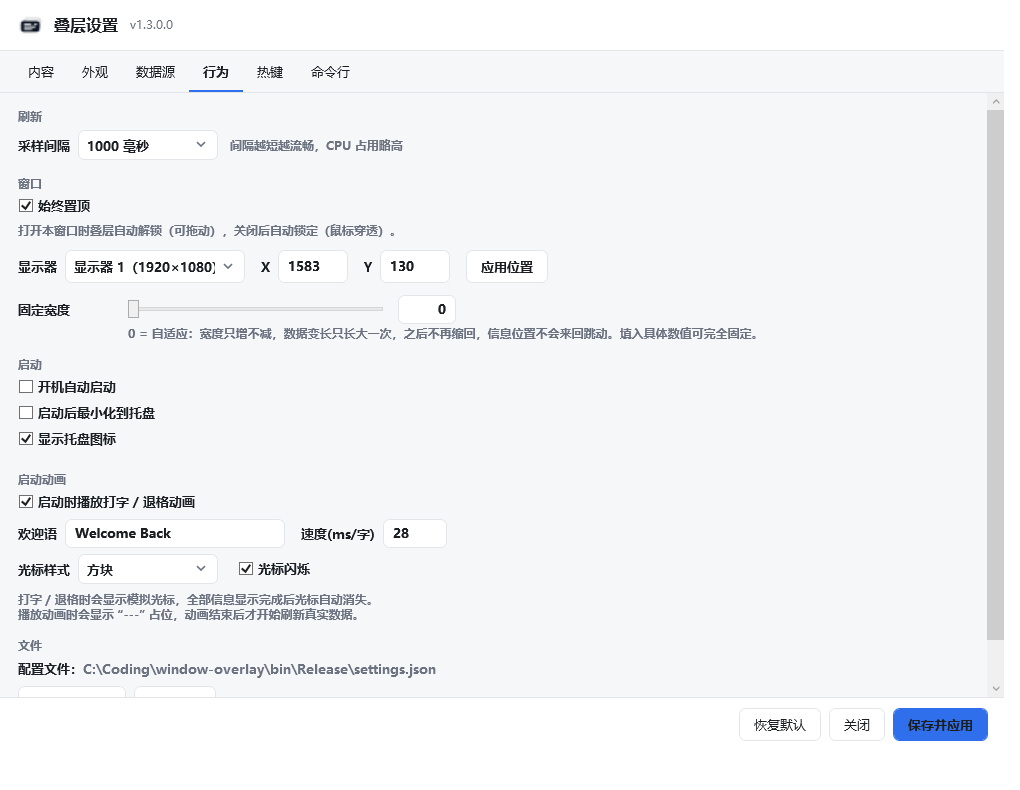
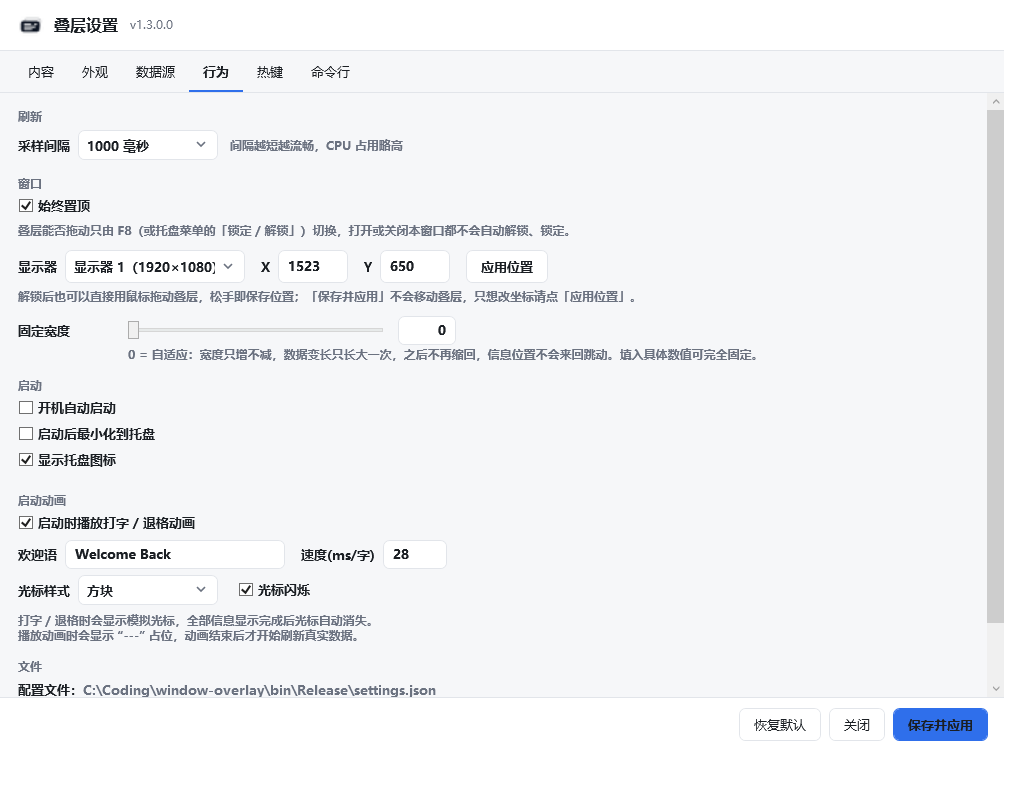
v1.4.0：锁定只由 F8 控制，保存设置不再移动叠层
- 打开 / 关闭设置窗口不再自动解锁或锁定，锁定状态只由 F8 与托盘菜单切换
- 修复「保存并应用」把叠层拉回打开设置时的位置：ApplySettings 以运行时 X/Y/Monitor/Locked 为准，
  拖动结束后由 OnPositionChanged 把新坐标同步回设置窗口
- 版本升到 1.4.0；publish.bat 产出四个单文件 exe（x64 / ARM64 × 自带运行时 / 依赖运行时）
- README 更新四种下载的说明、F8 语义与 publish 输出；重新生成设置截图
- 源码说明文档改由独立仓库维护，主仓库不再包含 docs/source（已在 .gitignore 忽略）

diff --git a/src/Ui/SettingsWindow.xaml b/src/Ui/SettingsWindow.xaml
@@ -354,7 +354,7 @@
                         <TextBlock Text="窗口" Style="{StaticResource SectionTitle}" Margin="0,16,0,6" />
                         <CheckBox x:Name="TopmostCheck" Content="始终置顶" Margin="0,0,0,8" />
                         <TextBlock Style="{StaticResource Hint}" TextWrapping="Wrap" Margin="0,0,0,8"
-                                   Text="打开本窗口时叠层自动解锁（可拖动），关闭后自动锁定（鼠标穿透）。" />
+                                   Text="叠层能否拖动只由 F8（或托盘菜单的「锁定 / 解锁」）切换，打开或关闭本窗口都不会自动解锁、锁定。" />
 
                         <StackPanel Orientation="Horizontal" Margin="0,4,0,0">
                             <TextBlock Text="显示器" VerticalAlignment="Center" />
@@ -365,6 +365,8 @@
                             <TextBox x:Name="YBox" Width="70" Margin="8,0,16,0" />
                             <Button Content="应用位置" Click="ApplyPositionClick" />
                         </StackPanel>
+                        <TextBlock Style="{StaticResource Hint}" TextWrapping="Wrap" Margin="0,6,0,0"
+                                   Text="解锁后也可以直接用鼠标拖动叠层，松手即保存位置；「保存并应用」不会移动叠层，只想改坐标请点「应用位置」。" />
 
                         <Grid Margin="0,12,0,0">
                             <Grid.ColumnDefinitions>

diff --git a/src/Ui/OverlayController.cs b/src/Ui/OverlayController.cs
@@ -124,7 +124,7 @@ namespace WindowOverlay.Ui
             window.HideRequested += ToggleVisibility;
             window.LockToggleRequested += ToggleLock;
             window.ExitRequested += Exit;
-            window.PositionChanged += SaveSettings;
+            window.PositionChanged += OnPositionChanged;
             window.CommandLineRequested += ToggleCommandLine;
             window.CommandSubmitted += SubmitCommand;
             window.CommandCancelled += ExitCommandLine;
@@ -663,18 +663,12 @@ namespace WindowOverlay.Ui
             if (_settingsWindow == null)
             {
                 _settingsWindow = new SettingsWindow(_settings, ApplySettings, ApplyPosition, ClearKeys);
-                _settingsWindow.IsVisibleChanged += (s, e) =>
-                {
-                    if (_settingsWindow != null && !_settingsWindow.IsVisible) SetLocked(true);
-                };
             }
             else
             {
                 _settingsWindow.Reload(_settings);
             }
 
-            // 打开设置期间叠层保持可拖动，方便直接调整位置；关闭后再锁回去。
-            SetLocked(false);
             _settingsWindow.Show();
             _settingsWindow.WindowState = WindowState.Normal;
             _settingsWindow.Activate();
@@ -692,6 +686,14 @@ namespace WindowOverlay.Ui
         public void ApplySettings(Settings settings)
         {
             if (_commandMode) ExitCommandLine();
+
+            // 位置与锁定是运行时状态：只由拖动、F8 和托盘菜单改变。
+            // 设置窗口里的坐标是打开窗口那一刻的快照，这里必须以实时值为准，
+            // 否则保存设置会把叠层拉回打开设置时的位置（也顺手把 F8 的解锁状态覆盖掉）。
+            settings.Overlay.X = _settings.Overlay.X;
+            settings.Overlay.Y = _settings.Overlay.Y;
+            settings.Overlay.Monitor = _settings.Overlay.Monitor;
+            settings.Overlay.Locked = _settings.Overlay.Locked;
 
             FinishIntro();
             _settings = settings;
@@ -732,6 +734,15 @@ namespace WindowOverlay.Ui
             }
 
             SaveSettings();
+        }
+
+        /// <summary>拖动结束后保存新坐标，并把实时坐标同步给打开着的设置窗口。</summary>
+        void OnPositionChanged()
+        {
+            SaveSettings();
+
+            if (_settingsWindow != null)
+                _settingsWindow.SyncPosition(_settings.Overlay.X, _settings.Overlay.Y, _settings.Overlay.Monitor);
         }
 
         void SaveSettings()

diff --git a/src/Ui/SettingsWindow.xaml.cs b/src/Ui/SettingsWindow.xaml.cs
@@ -825,6 +825,27 @@ namespace WindowOverlay.Ui
             StatusText.Text = "已移动到 X=" + x + " Y=" + y;
         }
 
+        /// <summary>
+        /// 把叠层的实时坐标同步到「显示器 / X / Y」输入框。
+        /// 拖动叠层和保存设置之后都会调用，保证对话框里显示的永远是叠层的真实位置。
+        /// </summary>
+        public void SyncPosition(double x, double y, int monitor)
+        {
+            bool old = _suppress;
+            _suppress = true;
+            try
+            {
+                XBox.Text = x.ToString("0", CultureInfo.InvariantCulture);
+                YBox.Text = y.ToString("0", CultureInfo.InvariantCulture);
+                if (MonitorCombo.Items.Count > 0)
+                    MonitorCombo.SelectedIndex = Math.Max(0, Math.Min(monitor, MonitorCombo.Items.Count - 1));
+            }
+            finally
+            {
+                _suppress = old;
+            }
+        }
+
         void HotkeyBoxPreviewKeyDown(object sender, KeyEventArgs e)
         {
             var box = sender as TextBox;
@@ -906,6 +927,9 @@ namespace WindowOverlay.Ui
             }
 
             if (_onApply != null) _onApply(s);
+
+            // 控制器把位置 / 锁定换成了实时值，同步回界面，避免下次保存又写回旧坐标。
+            SyncPosition(s.Overlay.X, s.Overlay.Y, s.Overlay.Monitor);
 
             _working = Clone(s);
             StatusText.Text = "已保存并应用（" + DateTime.Now.ToString("HH:mm:ss") + "）";

diff --git a/src/Ui/OverlayWindow.xaml.cs b/src/Ui/OverlayWindow.xaml.cs
@@ -80,7 +80,7 @@ namespace WindowOverlay.Ui
             UpdateMenuHeaders();
         }
 
-        /// <summary>只同步设置对象与鼠标穿透状态，不重画内容（切锁定、开设置时用）。</summary>
+        /// <summary>只同步设置对象与鼠标穿透状态，不重画内容（F8 / 托盘切换锁定时用）。</summary>
         public void RefreshSettings(Settings settings)
         {
             _settings = settings;

diff --git a/README.md b/README.md
@@ -32,8 +32,17 @@
 
 ## 🚀 快速开始
 
-**下载即用**：到 [Releases](https://github.com/CRITTIof/overlay-information-with-cmd/releases) 下载
-`WindowOverlay-x64.exe`（普通电脑）或 `WindowOverlay-arm64.exe`（Windows on ARM），放到任意本地目录双击运行。
+**下载即用**：到 [Releases](https://github.com/CRITTIof/overlay-information-with-cmd/releases) 下载，四种任选：
+
+| 文件 | 适用 | 说明 |
+| --- | --- | --- |
+| `WindowOverlay-x64.exe` | 普通电脑（x64） | 自带 .NET 8 运行时，约 60 MB，双击即用 |
+| `WindowOverlay-arm64.exe` | Windows on ARM | 自带 .NET 8 运行时，约 60 MB |
+| `WindowOverlay-x64-requires-dotnet.exe` | 已装 .NET 8 桌面运行时 | 体积约 0.4 MB，依赖系统运行时 |
+| `WindowOverlay-arm64-requires-dotnet.exe` | 已装 .NET 8 桌面运行时的 ARM 机器 | 体积约 0.4 MB，依赖系统运行时 |
+
+不放心的机器选前两个（免安装运行时）；想省空间、且已经装了
+[.NET 8 桌面运行时](https://dotnet.microsoft.com/download/dotnet/8.0)的，选后两个。
 
 **从源码运行**：
 
@@ -52,7 +61,7 @@ run.bat
 | --- | --- | --- |
 | 打开 / 关闭快捷命令行 | `F9` | 见下一节 |
 | 打开设置窗口 | `F10` | 也可左键单击托盘图标 |
-| 锁定 / 解锁（鼠标穿透） | `F8` | 解锁后可拖动、右键菜单、双击设置；打开设置窗口时自动解锁，关闭后自动锁定 |
+| 锁定 / 解锁（鼠标穿透） | `F8` | 叠层能否拖动、能否点右键只由它切换；打开 / 关闭设置窗口不会自动改变锁定状态，保存设置也不会移动叠层 |
 | 显示 / 隐藏叠层 | *未设置* | 从托盘菜单操作，或自行绑定 |
 
 所有热键都能在「设置 → 热键」里改，**留空 = 不启用**；被其它程序占用时会自动退到 `Ctrl+Alt+原键`。
@@ -183,12 +192,21 @@ MEM {mem_pct:0}%    →  MEM 40%
 
 ```bat
 build.bat      :: 编译到 bin\Release，并用自签名证书签名
-publish.bat    :: 生成单文件 exe：publish\x64\WindowOverlay.exe 与 publish\arm64\WindowOverlay.exe
+publish.bat    :: 生成四个单文件 exe（自带运行时 + 依赖运行时，各 x64 / ARM64）
 run.bat        :: 编译（如未编译）并在 bin\Release 内启动
 ```
 
-单文件版自带运行时、压缩后约 60 MB，目标机器无需安装 .NET。签名使用自签名证书
-（主体为 GitHub 账号 `CRITTIof`，写入 `CurrentUser` 存储，不需要管理员），
+`publish.bat` 的输出：
+
+```
+publish\x64\WindowOverlay.exe                   自带 .NET 运行时
+publish\arm64\WindowOverlay.exe                 自带 .NET 运行时
+publish\x64-requires-dotnet\WindowOverlay.exe   需要 .NET 8 桌面运行时
+publish\arm64-requires-dotnet\WindowOverlay.exe 需要 .NET 8 桌面运行时
+```
+
+自带运行时的版本压缩后约 60 MB，目标机器无需安装 .NET；依赖运行时的版本只有约 0.4 MB。
+签名使用自签名证书（主体为 GitHub 账号 `CRITTIof`，写入 `CurrentUser` 存储，不需要管理员），
 所以 Windows 显示发布者名称而不是“未知发布者”。
 
 ## 🩺 故障排查
@@ -226,7 +244,7 @@ run.bat        :: 编译（如未编译）并在 bin\Release 内启动
 ```
 WindowOverlay.csproj   项目文件（net8.0-windows，WPF + WinForms 托盘）
 build.bat / run.bat    编译签名 / 编译并启动
-publish.bat            单文件 exe（x64 + ARM64）
+publish.bat            四个单文件 exe（x64 + ARM64，各含自带运行时 / 依赖运行时两种）
 sign.ps1               自签名证书与签名
 bin\Release\           编译输出，settings.json 与 overlay.log 也在这里
 src/
@@ -236,6 +254,7 @@ src/
   Text/                模板引擎、快捷命令行执行器
   Ui/                  叠层、设置窗口、托盘、热键、TextCanvas 自绘
 docs/                  界面截图
+tools/make_logo.py     从 SVG 几何生成 assets/logo*.ico
 ```
 
 <p align="center"><sub>基于 .NET 8 · WPF · PDH · 自绘文本渲染</sub></p>
